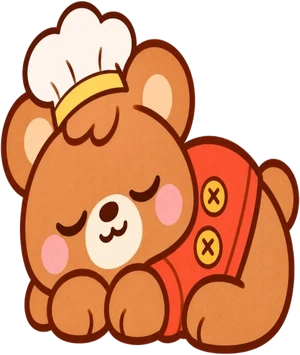
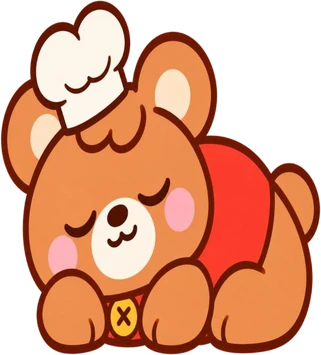
DODO 三型睡覺圖重畫：扣子回到胸前（不畫在背上），頭帶、廚師帽、橡樹苗照定稿
Claude-Session: https://claude.ai/code/session_01UtWEYBXauzih7EQqRm4b6n

diff --git a/sw.js b/sw.js
@@ -1,5 +1,5 @@
 // 離線快取：任何檔案改動後都要把 VERSION 加一（wp-life-v1 → wp-life-v2），新增的素材也要加進 CORE 清單。
-const VERSION = 'wp-life-v17';
+const VERSION = 'wp-life-v18';
 const CORE = [
   './',
   './index.html',

diff --git a/docs/growth-chart-v1.md b/docs/growth-chart-v1.md
@@ -52,7 +52,7 @@
 - 寶寶的睡覺／生病／捧食物三張，帽子顏色用 `tools/capmatch.py` 對齊定稿 idle（ChatGPT 後來畫的帽子偏淺焦糖色）。
 - 吃東西（捧著食物）：KURI（11-25）、SUNNY、DODO、PIKO、森林寶寶（11-28）都有 `{型態}_act_hold.webp`＋`{型態}_act_hold_front.webp`。做法：請 ChatGPT 畫雙手捧著洋紅色 #FF00FF 圓形佔位，`tools/holdpose.py` 拆成身體層（洋紅處填附近最常見的毛色）與前掌層，並印出錨點登記到 `index.html` 的 `HOLD`；遊戲畫法是身體層 → 食物圖示（`assets/food/`，`tools/foodsheet.py` 切圖）→ 前掌層，所以餵什麼就捧什麼。手上原本拿的道具（PIKO 的放大鏡）吃東西時放下。成年 16 型尚未補，暫時是食物拿在嘴邊。
 - 便便：`assets/props/poop.webp`（11-28），程式另外畫臭臭線。
-- 成年 16 型睡覺圖 `{型態}_act_sleep.webp`（2026-11-28）：睡姿照幼年睡覺圖（捲起來側臥），身上戴的配件照戴（郵差包、四葉草、彩虹尾、頭帶、廚師帽、橡樹苗、偵探帽、護目鏡），手上拿的放到身邊地上（澆水壺、蛋糕、望遠鏡、太陽旗、野餐籃、放大鏡、扳手、星空望遠鏡），暖暖守護熊把披風毛毯當被子蓋、菇菇博士趴在書上睡。大小用 `tools/adultpose.py` 依「幼年睡覺高 ÷ 幼年 idle 高」換算（小園丁截圖構圖不同，另外縮 0.82）。ChatGPT 第一輪常自己多加帽子／圍裙／髮夾（郵差、甜點師、四葉草、SUNNY 三型），以及毛毯變紅格子，都已要求照定稿重畫。
+- 成年 16 型睡覺圖 `{型態}_act_sleep.webp`（2026-11-28）：睡姿照幼年睡覺圖（捲起來側臥），身上戴的配件照戴（郵差包、四葉草、彩虹尾、頭帶、廚師帽、橡樹苗、偵探帽、護目鏡），手上拿的放到身邊地上（澆水壺、蛋糕、望遠鏡、太陽旗、野餐籃、放大鏡、扳手、星空望遠鏡），暖暖守護熊把披風毛毯當被子蓋、菇菇博士趴在書上睡。大小用 `tools/adultpose.py` 依「幼年睡覺高 ÷ 幼年 idle 高」換算（小園丁截圖構圖不同，另外縮 0.82）。DODO 三型（滾球王、大廚、大橡樹）第一版把背心扣子畫在背上，已重畫成扣子只在胸前（趴著時最多下巴下露一顆），頭帶、廚師帽、橡樹苗也改回定稿樣式。ChatGPT 第一輪常自己多加帽子／圍裙／髮夾（郵差、甜點師、四葉草、SUNNY 三型），以及毛毯變紅格子，都已要求照定稿重畫。
 - 程式疊加：睡覺時閉眼；飲食傾向提示改成「嫩芽周圍的彩色光暈」（綠＝菜園、橘＝陽光、棕＝蜂蜜、紫＝好奇），陽光另加小光點
 - 之後可再請 ChatGPT 補吃東西、睡覺、生病的專用圖
 - 以下為原始提案：
